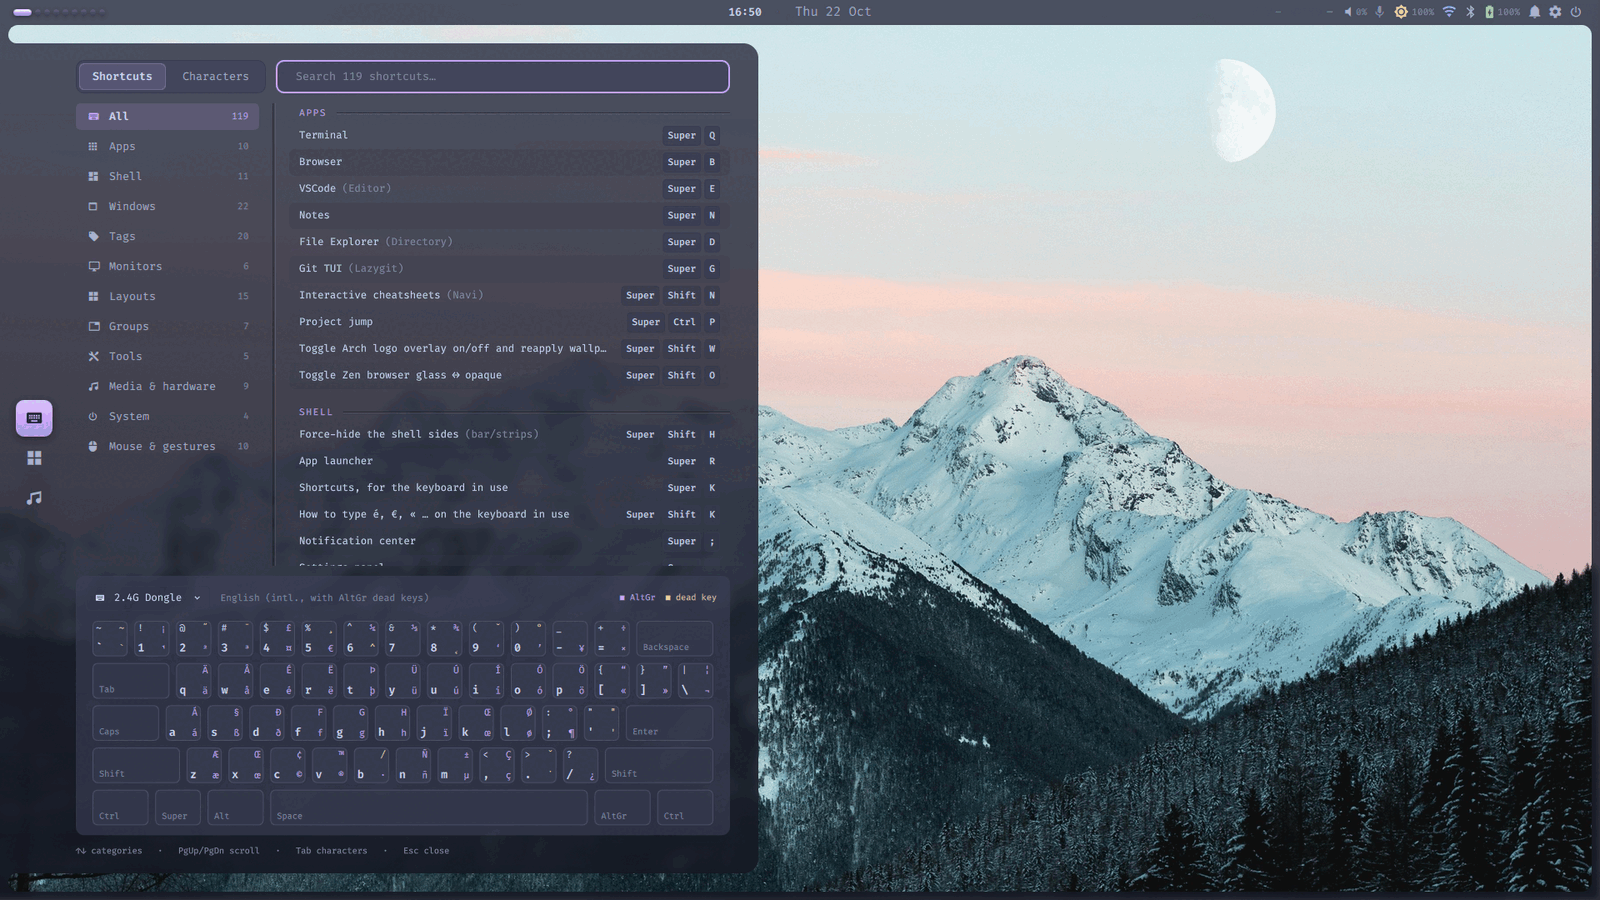
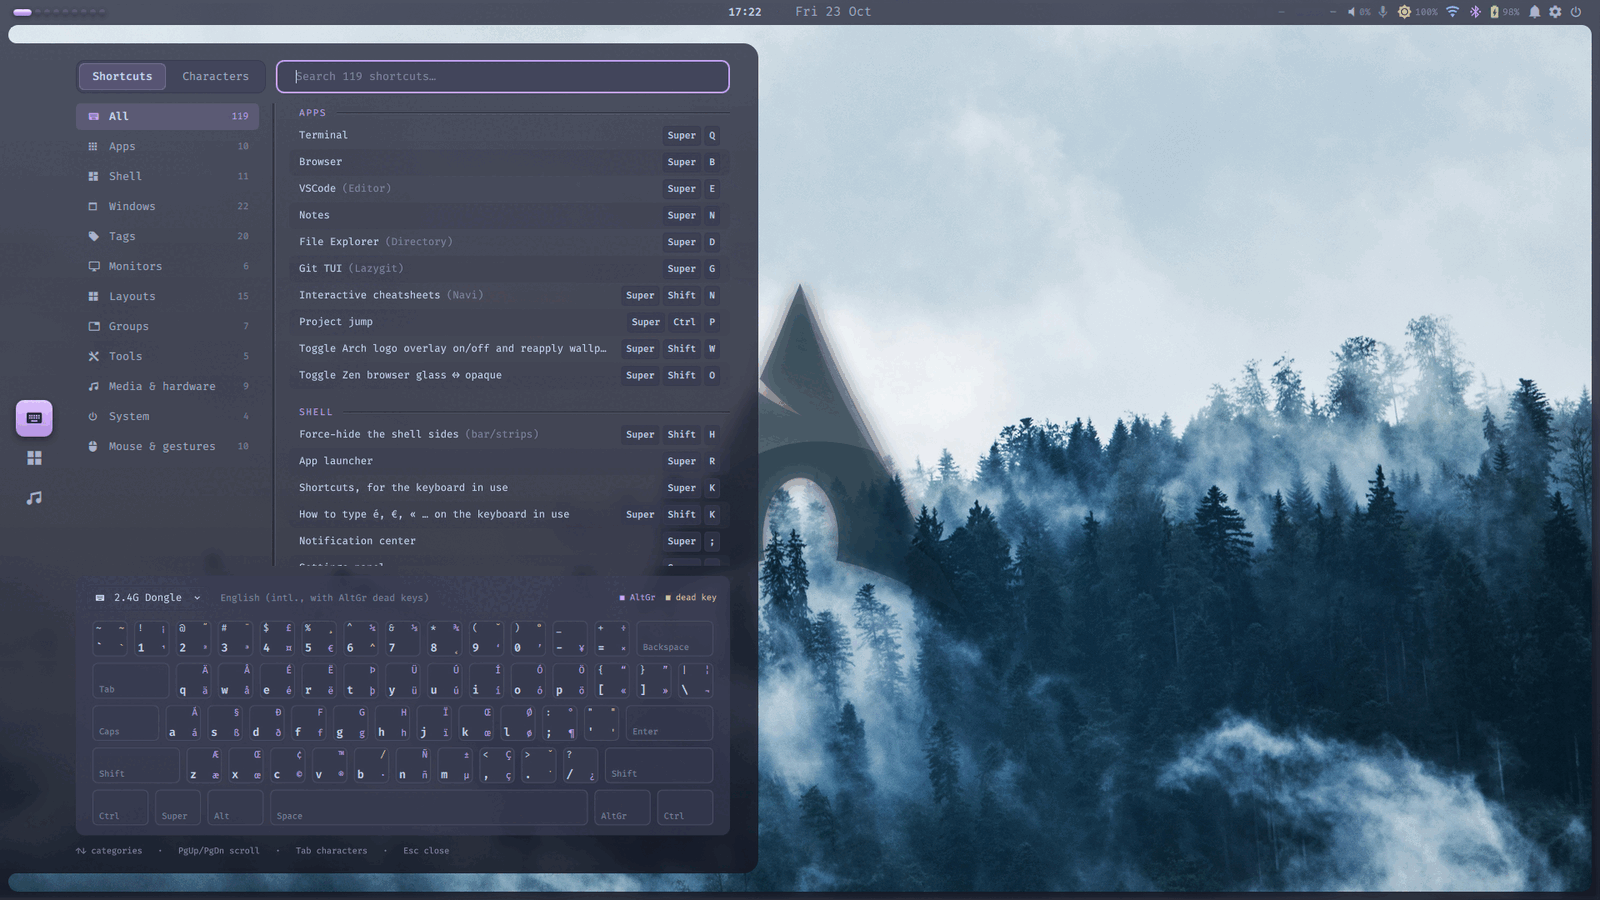
chg[MD/PNG/SH]: README in the shell-rice style; renders on a free wallpaper, no IP

diff --git a/README.md b/README.md
@@ -1,121 +1,98 @@
 <div align="center">
 
-<img src="docs/img/header.svg" alt="Archeotech shell" width="620">
+<img src="docs/img/header.svg" alt="Archeotech" width="620">
 
-### A complete desktop shell for Wayland. One theme for every app. A layout you arrange with the mouse.
+### Your desktop, your rules.
 
-[![License: GPL-3.0](https://img.shields.io/badge/license-GPL--3.0-c6a0f6.svg)](LICENSE)
-![Built with Quickshell](https://img.shields.io/badge/built%20with-Quickshell-8aadf4)
-![MangoWC and Hyprland](https://img.shields.io/badge/compositor-MangoWC%20%C2%B7%20Hyprland-7dc4e4)
-![Status: pre-1.0](https://img.shields.io/badge/status-pre--1.0-494d64)
-
-<img src="docs/img/dashboard.png" alt="The Archeotech dashboard over a glass frame" width="900">
-
-<sub>The dashboard on Catppuccin Macchiato, with real compositor blur. Demo projects, isolated render.</sub>
+[![Built with Quickshell](https://img.shields.io/badge/built%20with-quickshell-c6a0f6?style=for-the-badge&labelColor=24273a)](https://quickshell.org)
+[![MangoWC](https://img.shields.io/badge/mangowc-supported-8aadf4?style=for-the-badge&labelColor=24273a)](https://github.com/DreamMaoMao/mangowc)
+[![Hyprland](https://img.shields.io/badge/hyprland-supported-7dc4e4?style=for-the-badge&labelColor=24273a)](https://hyprland.org)
+[![License](https://img.shields.io/badge/license-GPL--3.0-a6da95?style=for-the-badge&labelColor=24273a)](LICENSE)
 
 </div>
 
----
+<!-- Placeholder until the showcase video is recorded: replace with the bare user-attachments mp4 URL. -->
+<div align="center">
+<img src="docs/img/dashboard.png" alt="The Archeotech dashboard over the glass frame" width="900">
+</div>
 
-Archeotech is a [Quickshell](https://quickshell.org) desktop shell for MangoWC and Hyprland.
-It draws the bar, side strips, launcher, dashboard, notifications, OSD, wallpaper picker and settings
-in one process and one glass frame. A theme change recolours the shell and your apps together:
-kitty, GTK, rofi, fish, starship, hyprlock, VS Code, Obsidian and the compositor borders.
-Every bar item and panel is a module. You place them in edit mode and the layout reloads live.
+<details>
+<summary><b>More screenshots</b></summary>
 
-## A day with Archeotech
+| | |
+|:---:|:---:|
+| <img src="docs/img/launcher.png" alt="Launcher" width="440"><br>Launcher | <img src="docs/img/settings.png" alt="Settings" width="440"><br>Settings |
+| <img src="docs/img/editmode.png" alt="Edit mode" width="440"><br>Edit mode | <img src="docs/img/keyboard.png" alt="Keybinds panel" width="440"><br>Keybinds panel |
+| <img src="docs/img/wallpaper.png" alt="Wallpaper picker" width="440"><br>Wallpaper picker | <img src="docs/img/themes.png" alt="Six themes" width="440"><br>Themes |
 
-- **Morning.** You dock the laptop. The display profile for that desk applies itself.
-- **Work.** `Super+Space` opens the launcher. One search box finds apps, settings and actions.
-- **A new shortcut.** `Super+K` lists every compositor bind, labelled for the keyboard you type on.
-- **Late afternoon.** The room gets bright. You pick a light theme and the terminals, GTK apps and shell follow.
-- **Weekend.** You move the clock to a side strip and add a notes panel. No file to edit.
+</details>
 
-## Why you want it
+Archeotech is a shell made to be shaped. The layout, the look and the behaviour are yours to change,
+from inside the shell, while it runs. Whatever is missing, you can add as a folder.
 
-| You have | Archeotech gives you |
-|---|---|
-| A bar, a launcher, a notifier and a wallpaper tool that each look different | **One shell** with one material and one set of tokens |
-| A theme that stops at the terminal | **One switch** for 13 official palettes, a flavor and an accent, applied to 11 targets |
-| A config file to edit for every layout change | **Edit mode**: drag widgets onto a bar, a strip or a holder |
-| Displays that change between home and work | **Per-monitor profiles** applied on dock and undock |
-| Settings scattered across tools | **One Settings panel** with search and a reset per setting |
-| A look you want to make your own | **Theme packs** that change the material, the frames and the fonts |
+## Make it yours
 
-## See it
+**Layout.** Every screen edge can be a bar, an icon strip or nothing. Open edit mode and drag widgets where you want them.
 
-### Launcher
-Apps, settings and shell actions in one list. Recent apps on top.
+**Look.** Pick a palette, dark or light, and any accent. Add a theme pack to change the material, the frames and the fonts.
+Your terminal, GTK apps, launcher menus and editor follow along.
 
-<img src="docs/img/launcher.png" alt="The launcher" width="900">
+**Behaviour.** Everything else is a setting in one searchable app, and every setting goes back to its default in one click.
 
-### Settings
-Theme family, flavor and accent. Solid or Glass, X-ray or real blur behind windows, text size.
-Displays, input, audio, connections, plugins and power. Every setting is searchable and resets to its default in one click.
+**Extend.** Widgets, panels and theme packs are plain folders with a manifest. Write your own or drop in someone else's.
 
-<img src="docs/img/settings.png" alt="Settings, Appearance pane" width="900">
+Also in the box: a launcher, a dashboard, notifications, a wallpaper picker, a keybinds panel and display profiles that follow your monitors.
 
-### Themes
-13 palettes from the official upstream sources, dark and light. CI checks every text colour for contrast.
+## Installation
 
-<img src="docs/img/themes.png" alt="The dashboard in six themes" width="900">
+You need [Quickshell](https://quickshell.org) 0.3 or newer, a Nerd Font and an icon theme (Papirus recommended).
 
-### Theme packs
-A pack changes the material on top of the palette. Base, Angular, Grimdark and HUD ship with the shell.
-
-<img src="docs/img/packs.png" alt="Base, Grimdark and HUD packs" width="900">
-
-### Edit mode
-Pick what each side of the screen is: a bar, an icon strip, a holder or nothing. Drag widgets from the library onto it.
-
-<img src="docs/img/editmode.png" alt="Edit mode with the widget library" width="900">
-
-### Keyboard
-Shortcuts and special characters in one panel. Hover a combo and the keyboard diagram lights its keys.
-
-<img src="docs/img/keyboard.png" alt="The keyboard panel" width="900">
-
-### Wallpapers
-Thumbnails per mode, with the logo overlay and the theme one tab away.
-
-<img src="docs/img/wallpaper.png" alt="The wallpaper picker" width="900">
-
-## Get started
-
-1. Install [Quickshell](https://quickshell.org) 0.3.0 or newer, a Nerd Font and an icon theme (Papirus recommended).
-2. Clone and install:
-   ```sh
-   git clone https://github.com/Nicolas-Rigaudy/archeotech-shell.git ~/Projects/archeotech-shell
-   cd ~/Projects/archeotech-shell
-   ./scripts/install.sh --dry-run   # preview, then run it without the flag
-   ```
-3. Add the required rules and keybinds to your compositor from [`examples/`](examples/)
-   ([MangoWC](examples/mangowc.conf.example), [Hyprland](examples/hyprland.conf.example)).
-4. Start it with `qs -c archeotech`.
+```sh
+git clone https://github.com/Nicolas-Rigaudy/archeotech-shell.git ~/Projects/archeotech-shell
+cd ~/Projects/archeotech-shell
+./scripts/install.sh --dry-run   # preview, then run it without the flag
+qs -c archeotech
+```
 
 The installer links the repo to `~/.config/quickshell/archeotech`, adds the theme packages and two wallpapers,
 and puts the helper scripts on your `PATH`. Optional tools (NetworkManager, bluez, brightnessctl, awww and others)
-light up their widgets when present. The full list is in [`docs/INSTALL.md`](docs/INSTALL.md).
+enable their widgets when present. The full list is in [`docs/INSTALL.md`](docs/INSTALL.md).
 
-Want the whole desktop around it? [archeotech-dotfiles](https://github.com/Nicolas-Rigaudy/archeotech-dotfiles)
-is the machine config this shell runs on.
+Then add the window rules and keybinds from [`examples/`](examples/) to your compositor:
+[MangoWC](examples/mangowc.conf.example) or [Hyprland](examples/hyprland.conf.example).
 
-<details>
-<summary><b>What is in the box</b></summary>
+> [!NOTE]
+> Archeotech is pre-1.0. It is a daily driver on MangoWC; Hyprland is supported through the example config.
 
-| Path | What |
+## Usage
+
+Default binds from the example config:
+
+| Keybind | Action |
 |---|---|
-| `shell.qml` | entry point: one frame per monitor with its bar, strips and panels |
-| `Modules/` | dashboard, launcher, notifications, OSD, settings, edit mode, panels |
-| `Widgets/Bar/` | bar widgets, mounted by file name (`<Id>Widget.qml`) |
-| `Services/` | audio, network, Bluetooth, displays, media, compositor IPC, config |
-| `Commons/` | design tokens, primitives, animation |
-| `themes/`, `packs/` | palettes and theme packs |
-| `modules/` | plugins (a folder with a `module.json`) |
-| `scripts/` | installer, theme switch, wallpaper, display profiles, render tools |
-| `tests/` | logic tests and 25 golden renders |
+| `Super + R` | Launcher |
+| `Super + Home` | Dashboard |
+| `Super + ,` | Settings |
+| `Super + W` | Wallpaper picker |
+| `Super + K` | Keybinds panel |
+| `Super + Shift + K` | Special characters |
+| `Super + ;` | Notifications |
+| `Super + Shift + E` | Edit mode |
 
-</details>
+Everything is also reachable over IPC:
+
+```sh
+qs -c archeotech ipc call launcher toggle
+qs -c archeotech ipc call settings openPane appearance
+```
+
+Targets: `launcher`, `dashboard`, `settings`, `wallpaper`, `keybinds`, `notifications`, `editmode`, `media`,
+`layout`, `osd`, `panel`, `popup`, `sides`, `theme`.
+
+## Configuring
+
+Most things are set from the Settings app and edit mode. Both write `~/.config/archeotech/config.json`,
+which hot-reloads when you edit it by hand.
 
 <details>
 <summary><b>Extend it</b></summary>
@@ -133,11 +110,38 @@ is the machine config this shell runs on.
 - `scripts/shot.sh` renders the shell in an isolated headless compositor. Your running session stays untouched.
 - `tests/run.sh` runs the logic tests. `scripts/golden.sh` compares 25 renders against the goldens.
 - CI runs qmllint, the logic tests, palette fidelity and contrast checks.
-- Regenerate the screenshots above: [`docs/screenshots.md`](docs/screenshots.md).
+- Regenerate the screenshots: [`docs/screenshots.md`](docs/screenshots.md).
 
 </details>
 
+## Updating
+
+```sh
+cd ~/Projects/archeotech-shell && git pull
+```
+
+The config dir is a link to the clone. QML changes hot-reload; restart the shell after a pull that adds packs or plugins.
+
+## FAQ
+
+**Does it work on other compositors?**
+MangoWC and Hyprland only. The workspace and window widgets talk to their IPC.
+
+**Where do my settings live?**
+`~/.config/archeotech/config.json`. Delete it to start from the defaults.
+
+**Can I use only the bar?**
+Yes. Turn the other screen edges off in edit mode and leave the panels on their binds.
+
+## Credits
+
+- [outfoxxed](https://github.com/outfoxxed) and [Quickshell](https://quickshell.org), which makes all of this possible.
+- [caelestia](https://github.com/caelestia-dots/shell), [end-4](https://github.com/end-4/dots-hyprland), [Noctalia](https://github.com/noctalia-dev/noctalia) and [DankMaterialShell](https://github.com/AvengeMedia/DankMaterialShell) for showing what a Quickshell shell can be.
+- [Catppuccin](https://github.com/catppuccin), Dracula, Gruvbox, Nord and Tokyo Night for the palettes, and [Papirus](https://github.com/PapirusDevelopmentTeam/papirus-icon-theme) for the icons.
+- [MangoWC](https://github.com/DreamMaoMao/mangowc) for the compositor.
+
+Want the whole desktop around it? [archeotech-dotfiles](https://github.com/Nicolas-Rigaudy/archeotech-dotfiles) is the machine config this shell runs on.
+
 ## License
 
-[GPL-3.0](LICENSE). Theme packs and plugins kept in their own repositories may use their own license.
-The bundled wallpapers are from [Pexels](https://www.pexels.com/license/).
+[GPL-3.0](LICENSE). The bundled wallpapers are from [Pexels](https://www.pexels.com/license/).

diff --git a/docs/showcase-video.md b/docs/showcase-video.md
@@ -1,0 +1,39 @@
+# Showcase video
+
+The README opens with one short video (about 50 s) that tours the shell. It is recorded on a real desk:
+headless capture reaches only 20 to 28 fps and looks choppy. Captions and title cards are added after.
+
+## Before recording
+
+- Base pack, a dark theme (Catppuccin Macchiato, mauve accent), glass on.
+- A free wallpaper from `wallpapers/`.
+- No private data on screen: clear notifications, check what the dashboard's project list shows.
+- One empty tag to start from. Close the terminal you start the recording from.
+
+## Record
+
+```sh
+sleep 5; timeout -s INT 75 wf-recorder -o eDP-1 -c libx264 -p preset=ultrafast -p crf=14 -f ~/Videos/archeotech-take.mkv
+```
+
+`wf-recorder -L` lists the outputs. The 5 s delay lets you switch to the empty tag. Recording stops by itself after 75 s.
+Move the mouse slowly and pause about a second after each panel opens. Do a short test take first to check the cursor shows.
+
+## Shot list
+
+| Time | Action | Caption |
+|---|---|---|
+| 0-4 s | Empty desktop, the cursor rests on the bar | title card: ARCHEOTECH |
+| 4-10 s | Hover two bar widgets, then `Super + Home` | Dashboard |
+| 10-16 s | `Super + R`, type `kit`, Enter | Launcher |
+| 16-24 s | `Super + W`, click two wallpapers | Wallpapers |
+| 24-32 s | `Super + ,`, Appearance: switch flavor to Latte, change the accent, back to Macchiato | One theme, every app |
+| 32-40 s | `Super + Shift + E`, drag a widget from the library onto the bar | Arrange with the mouse |
+| 40-46 s | `Super + K`, hover a combo so the keyboard lights up | Every bind, one key away |
+| 46-50 s | Close everything, back to the empty desktop | repo URL card |
+
+## After
+
+The take is cut, captioned and compressed to an mp4 under 10 MB. Drop it into the README on github.com
+(edit the file in the browser and drag the mp4 in). GitHub uploads it and inserts a bare `user-attachments` URL,
+which replaces the placeholder screenshot at the top of the README.

diff --git a/docs/screenshots.md b/docs/screenshots.md
@@ -8,7 +8,7 @@ scripts/readme-shots.sh ~/shots            # all shots
 scripts/readme-shots.sh ~/shots launcher   # one shot by name
 ```
 
-Data is fixture data. The dashboard scans demo git repos made in a temp dir.
+Data is fixture data. The dashboard scans demo git repos made in a temp dir, and its System notes card leaves out the IP row.
 The wallpaper is `wallpapers/pexels-eberhardgross-1287145.jpg`. Edit mode renders with `--fresh`,
 so no local plugin shows up.
 
@@ -22,7 +22,7 @@ Each image is resized to 1600 px wide and reduced to 256 colours:
 magick ~/shots/launcher.png -resize 1600x -colors 256 PNG8:docs/img/launcher.png
 ```
 
-`themes.png` and `packs.png` crop the dashboard panel (`-crop 990x612+465+462`) from the
-`theme-*`, `grimdark` and `hud` shots and tile them with `magick montage`.
+`themes.png` crops the dashboard panel (`-crop 990x612+465+462`) from the
+`theme-*` shots and tiles them with `magick montage`. Theme packs are add-ons and stay out of the README.
 
 `docs/img/header.svg` is plain SVG rects (5x7 pixel letters). It renders the same on GitHub light and dark.
